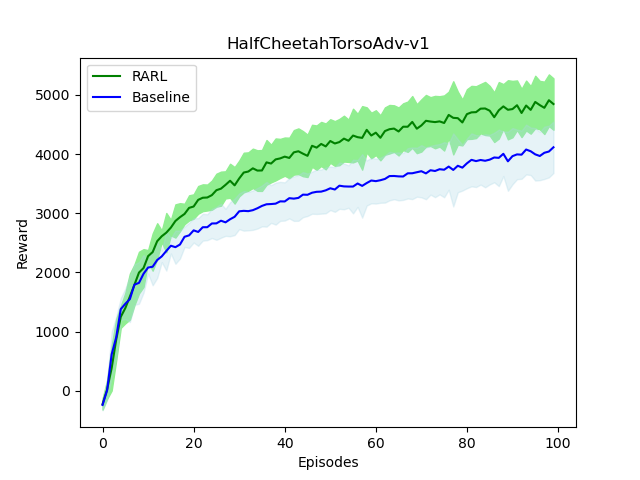
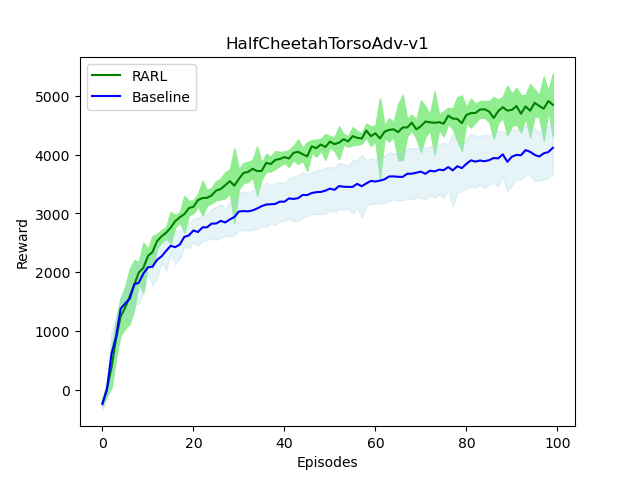
minor changes

Changed region(s): [[0.0297, 0.0585, 0.892, 0.9937]]

diff --git a/rarl.py b/rarl.py
@@ -7,13 +7,13 @@ import config
 from matplotlib import pyplot as plt
 from utils import train, eval, observe
 
-best_observed_rarl = -1
-best_observed_baseline = -1 
 RARL_REWARDS = np.zeros((config.NUM_EXPERIMENTS * config.EVAL_EPISODES, config.RARL_LOOPS))
 BASELINE_REWARDS = np.zeros((config.NUM_EXPERIMENTS * config.EVAL_EPISODES, config.RARL_LOOPS))
 
 for ex in range(config.NUM_EXPERIMENTS):
     
+    best_observed_rarl = -1
+    best_observed_baseline = -1 
     #setup environments 
     adv_env = gym.make(config.ENV)
     base_env = gym.make(config.ENV)
@@ -72,12 +72,12 @@ for ex in range(config.NUM_EXPERIMENTS):
         BASELINE_REWARDS[int(ex*config.EVAL_EPISODES):int(ex*config.EVAL_EPISODES) + config.EVAL_EPISODES, i] = baseline_reward
 
         if np.mean(rarl_reward) >= best_observed_rarl:
-            adv_env_pro_policy.save(config.SAVE_DIR + 'best_rarl_pro')
-            adv_env_adv_policy.save(config.SAVE_DIR + 'best_rarl_adv')
+            adv_env_pro_policy.save(config.SAVE_DIR + 'best_rarl_pro_' + str(ex))
+            adv_env_adv_policy.save(config.SAVE_DIR + 'best_rarl_adv_' + str(ex))
             best_observed_rarl = np.mean(rarl_reward)
 
         if np.mean(baseline_reward) >= best_observed_baseline:
-            base_env_pro_policy.save(config.SAVE_DIR + 'best_baseline')
+            base_env_pro_policy.save(config.SAVE_DIR + 'best_baseline_' + str(ex))
             best_observed_baseline = np.mean(baseline_reward)
 
 with open(config.SAVE_DIR + 'results.npy', 'wb') as f:
@@ -88,7 +88,7 @@ with open(config.SAVE_DIR + 'results.npy', 'wb') as f:
 #plot results 
 x = np.arange(config.RARL_LOOPS)
 RARL_mean = np.mean(RARL_REWARDS, axis=0)
-RARL_std = np.std(BASELINE_REWARDS, axis=0)
+RARL_std = np.std(RARL_REWARDS, axis=0)
 BASELINE_mean = np.mean(BASELINE_REWARDS, axis=0)
 BASELINE_std = np.std(BASELINE_REWARDS, axis=0)
 plt.plot(x, RARL_mean, linestyle='-', color = 'g', label = 'RARL')

diff --git a/config.py b/config.py
@@ -1,5 +1,5 @@
 ENV = "InvertedPendulumAdv-v1"
-MAX_ADVERSARY_STRENGTH = 6
+MAX_ADVERSARY_STRENGTH = 5
 SEED = 0
 INITIAL_OBSERVATION_STEPS = 1e3
 MAX_REPLAY_BUFFER_SIZE = 1e8
@@ -12,9 +12,9 @@ NOISE_CLIP = 0.4
 POLICY_FREQUENCY = 2
 REWARD_THRESH = 1000
 HIDDEN_LAYER_DIM = 256
-N_TRAINING = 2000
-EVAL_EPISODES = 50
-RARL_LOOPS = 50
+N_TRAINING = 3000
+EVAL_EPISODES = 10
+RARL_LOOPS = 75
 MAX_STEPS_PER_EPISODE = 1000
 NUM_EXPERIMENTS = 5
 SAVE_DIR = './pendulum_data/'
@@ -60,4 +60,4 @@ SAVE_DIR = './pendulum_data/'
 # RARL_LOOPS = 100
 # MAX_STEPS_PER_EPISODE = 500
 # NUM_EXPERIMENTS = 5
-# SAVE_DIR = './halfcheetah_data_strong/'
+# SAVE_DIR = './hopper_data/'
